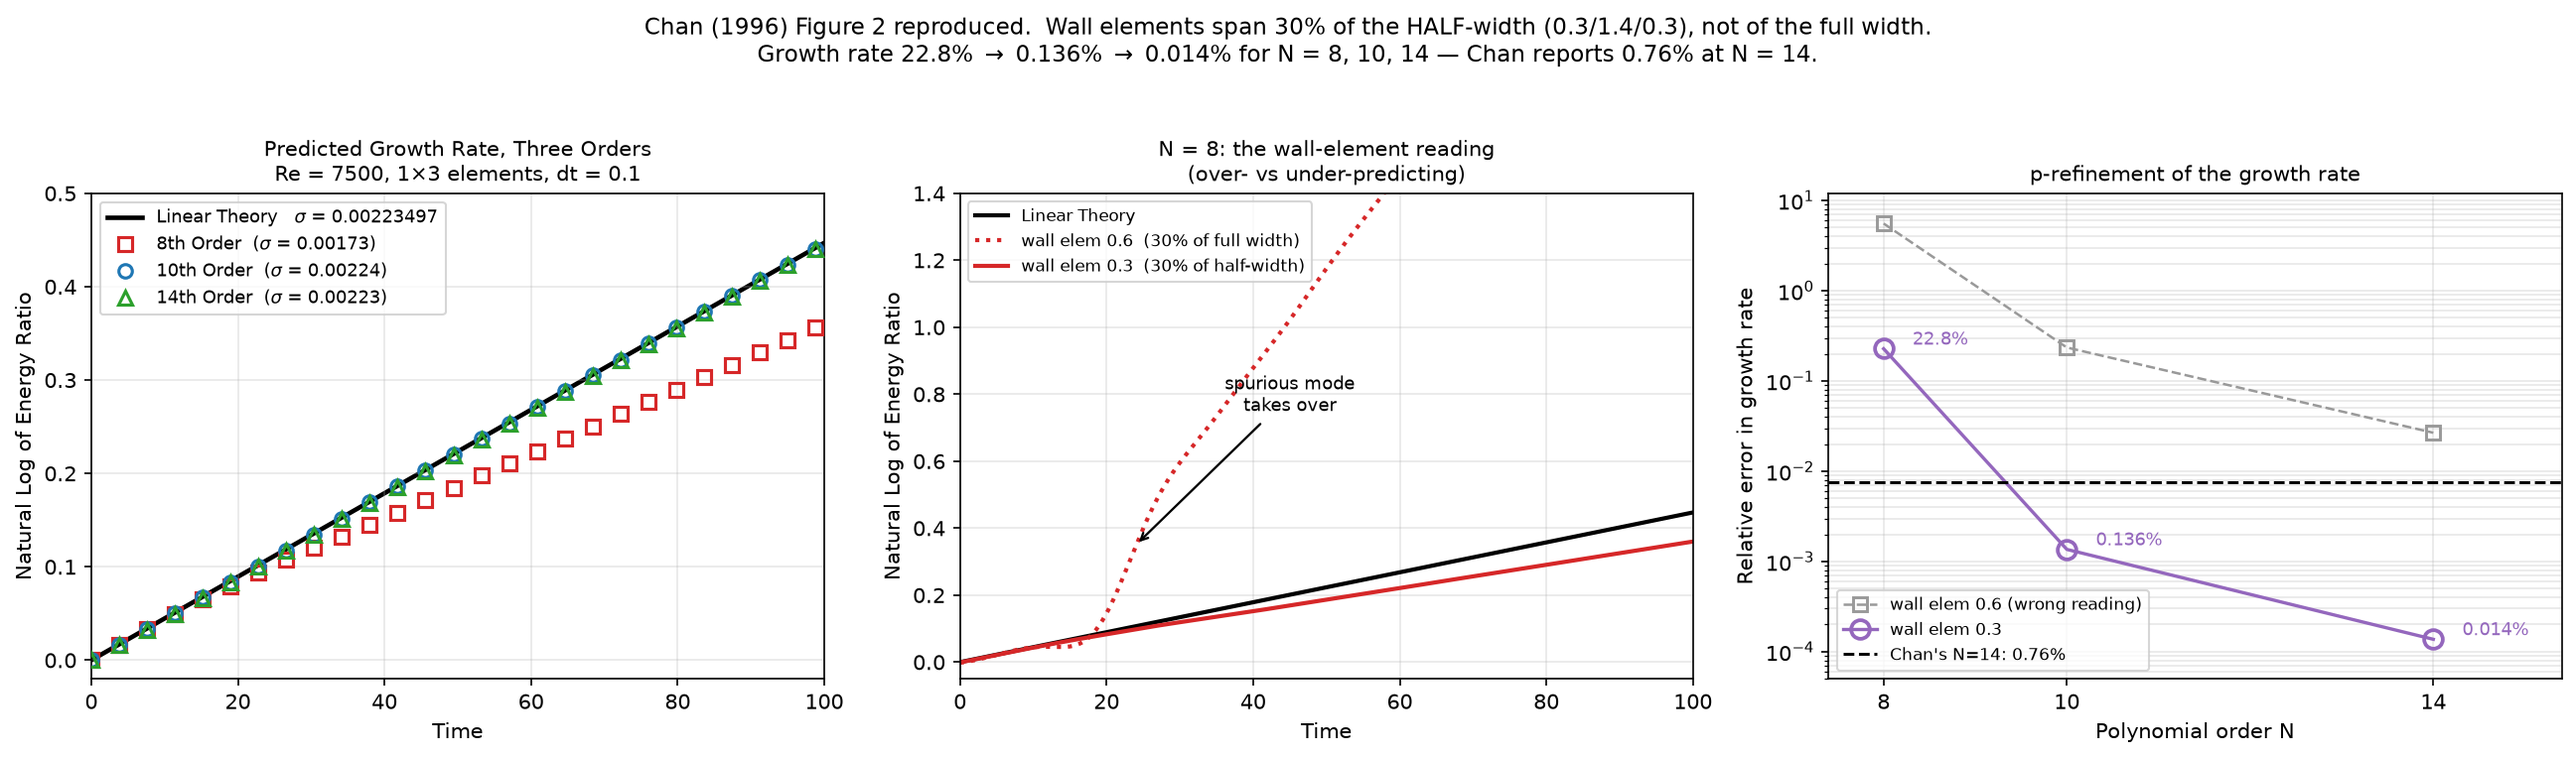
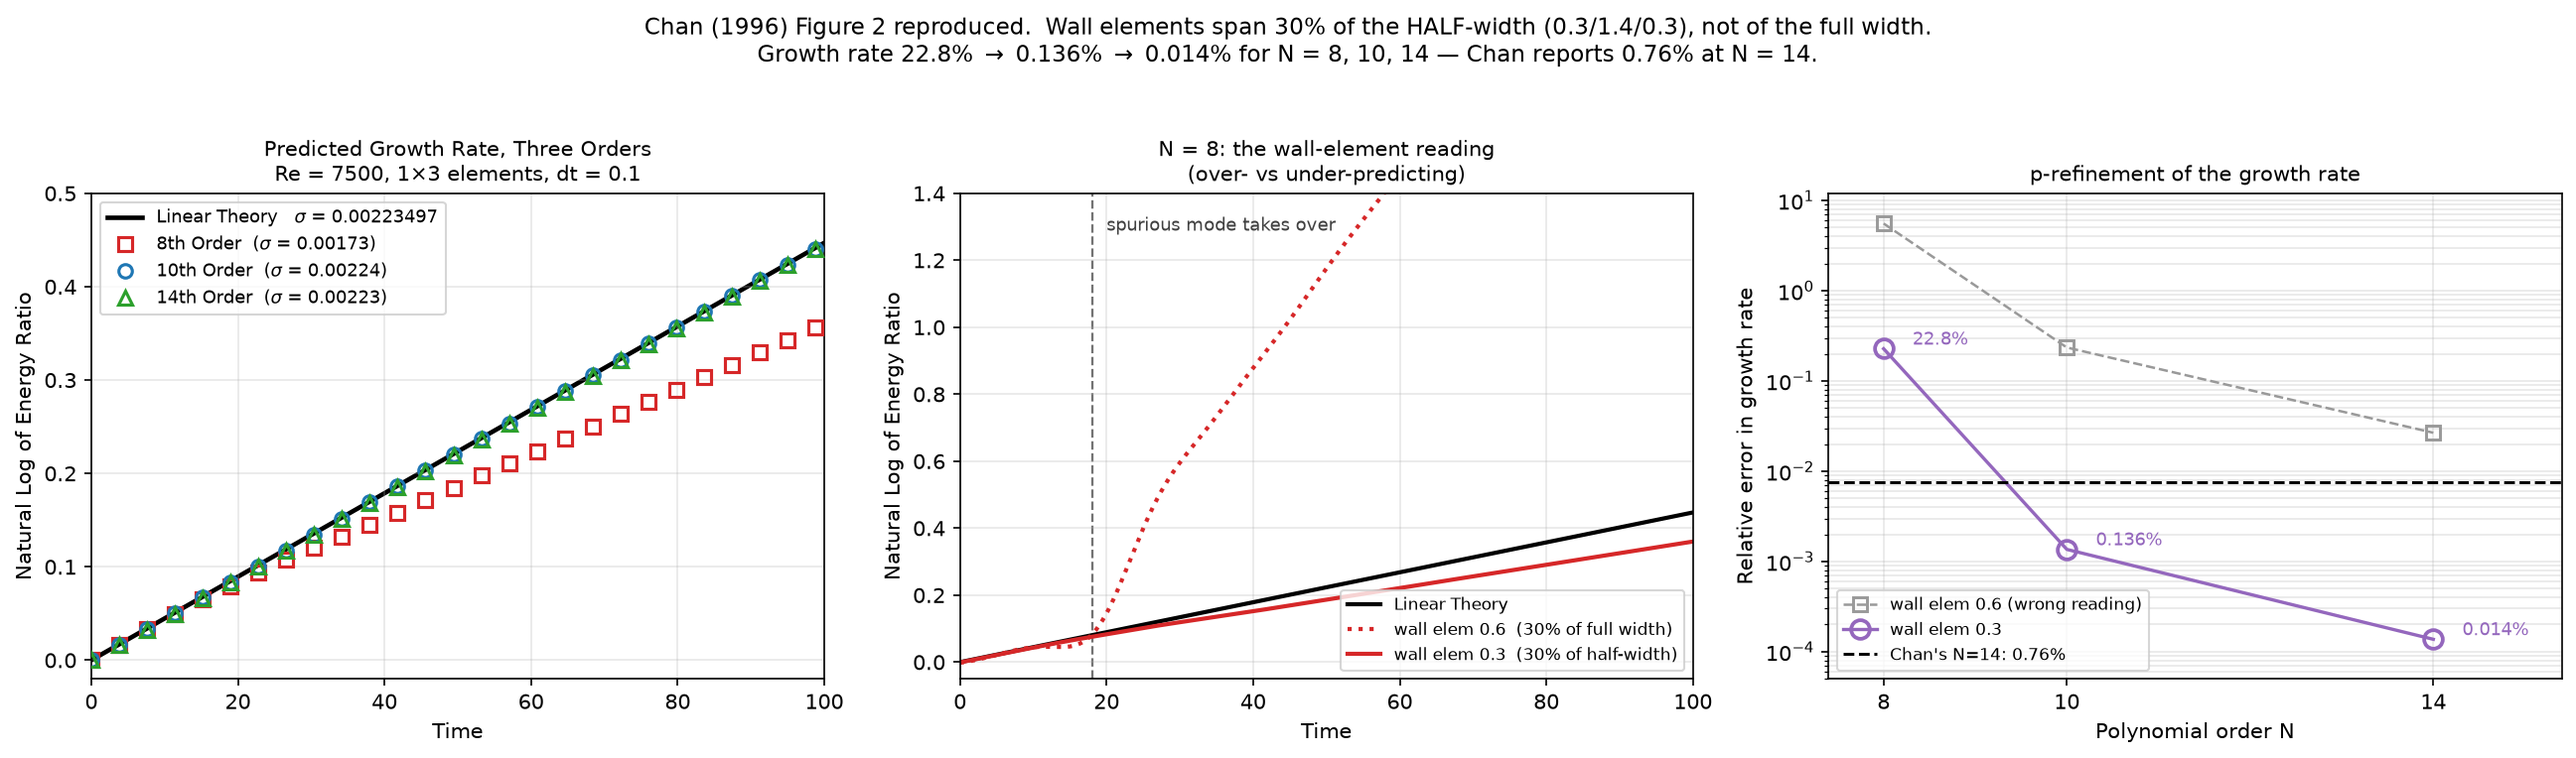
Fix the Figure 2 middle-panel annotation
The arrow pointed at (24, 0.35), which is empty space -- the departure from
linear theory is at t ~ 18, where ln(E/E0) leaves the line (0.052 at t=16,
0.082 at t=18, 0.146 at t=20).  Curving the arrow to the right place made it
sweep across the data instead.

Replaced with a vertical dashed rule at t = 18 and a short label above it, and
moved the panel legend to the lower right so the two do not collide.  No arrow
crosses the curves now.

Changed region(s): [[0.3747, 0.2709, 0.5308, 0.3914], [0.4996, 0.7526, 0.6557, 0.873], [0.4684, 0.4817, 0.5308, 0.5419]]

diff --git a/scratch/plot_fig2.py b/scratch/plot_fig2.py
@@ -37,12 +37,14 @@ ax.plot(dbad['N8_t'], np.log(dbad['N8_e']), ls=':', lw=2.0, color='tab:red',
         label='wall elem 0.6  (30% of full width)')
 ax.plot(d['N8_t'], np.log(d['N8_e']), ls='-', lw=2.0, color='tab:red',
         label='wall elem 0.3  (30% of half-width)')
-ax.annotate('spurious mode\ntakes over', xy=(24, 0.35), xytext=(45, 0.75),
-            fontsize=8.5, ha='center', arrowprops=dict(arrowstyle='->', lw=1.1))
+# mark the departure with a rule rather than an arrow across the data
+ax.axvline(18, color='0.45', ls='--', lw=1.1, zorder=0)
+ax.text(20, 1.33, 'spurious mode takes over', fontsize=8.5,
+        ha='left', va='top', color='0.25')
 ax.set_xlabel('Time'); ax.set_ylabel('Natural Log of Energy Ratio')
 ax.set_xlim(0, 100); ax.set_ylim(-0.05, 1.4)
 ax.set_title('N = 8: the wall-element reading\n(over- vs under-predicting)', fontsize=10)
-ax.grid(alpha=.3); ax.legend(fontsize=8, loc='upper left')
+ax.grid(alpha=.3); ax.legend(fontsize=8, loc='lower right')
 
 # (c) p-refinement
 ax = axs[2]
